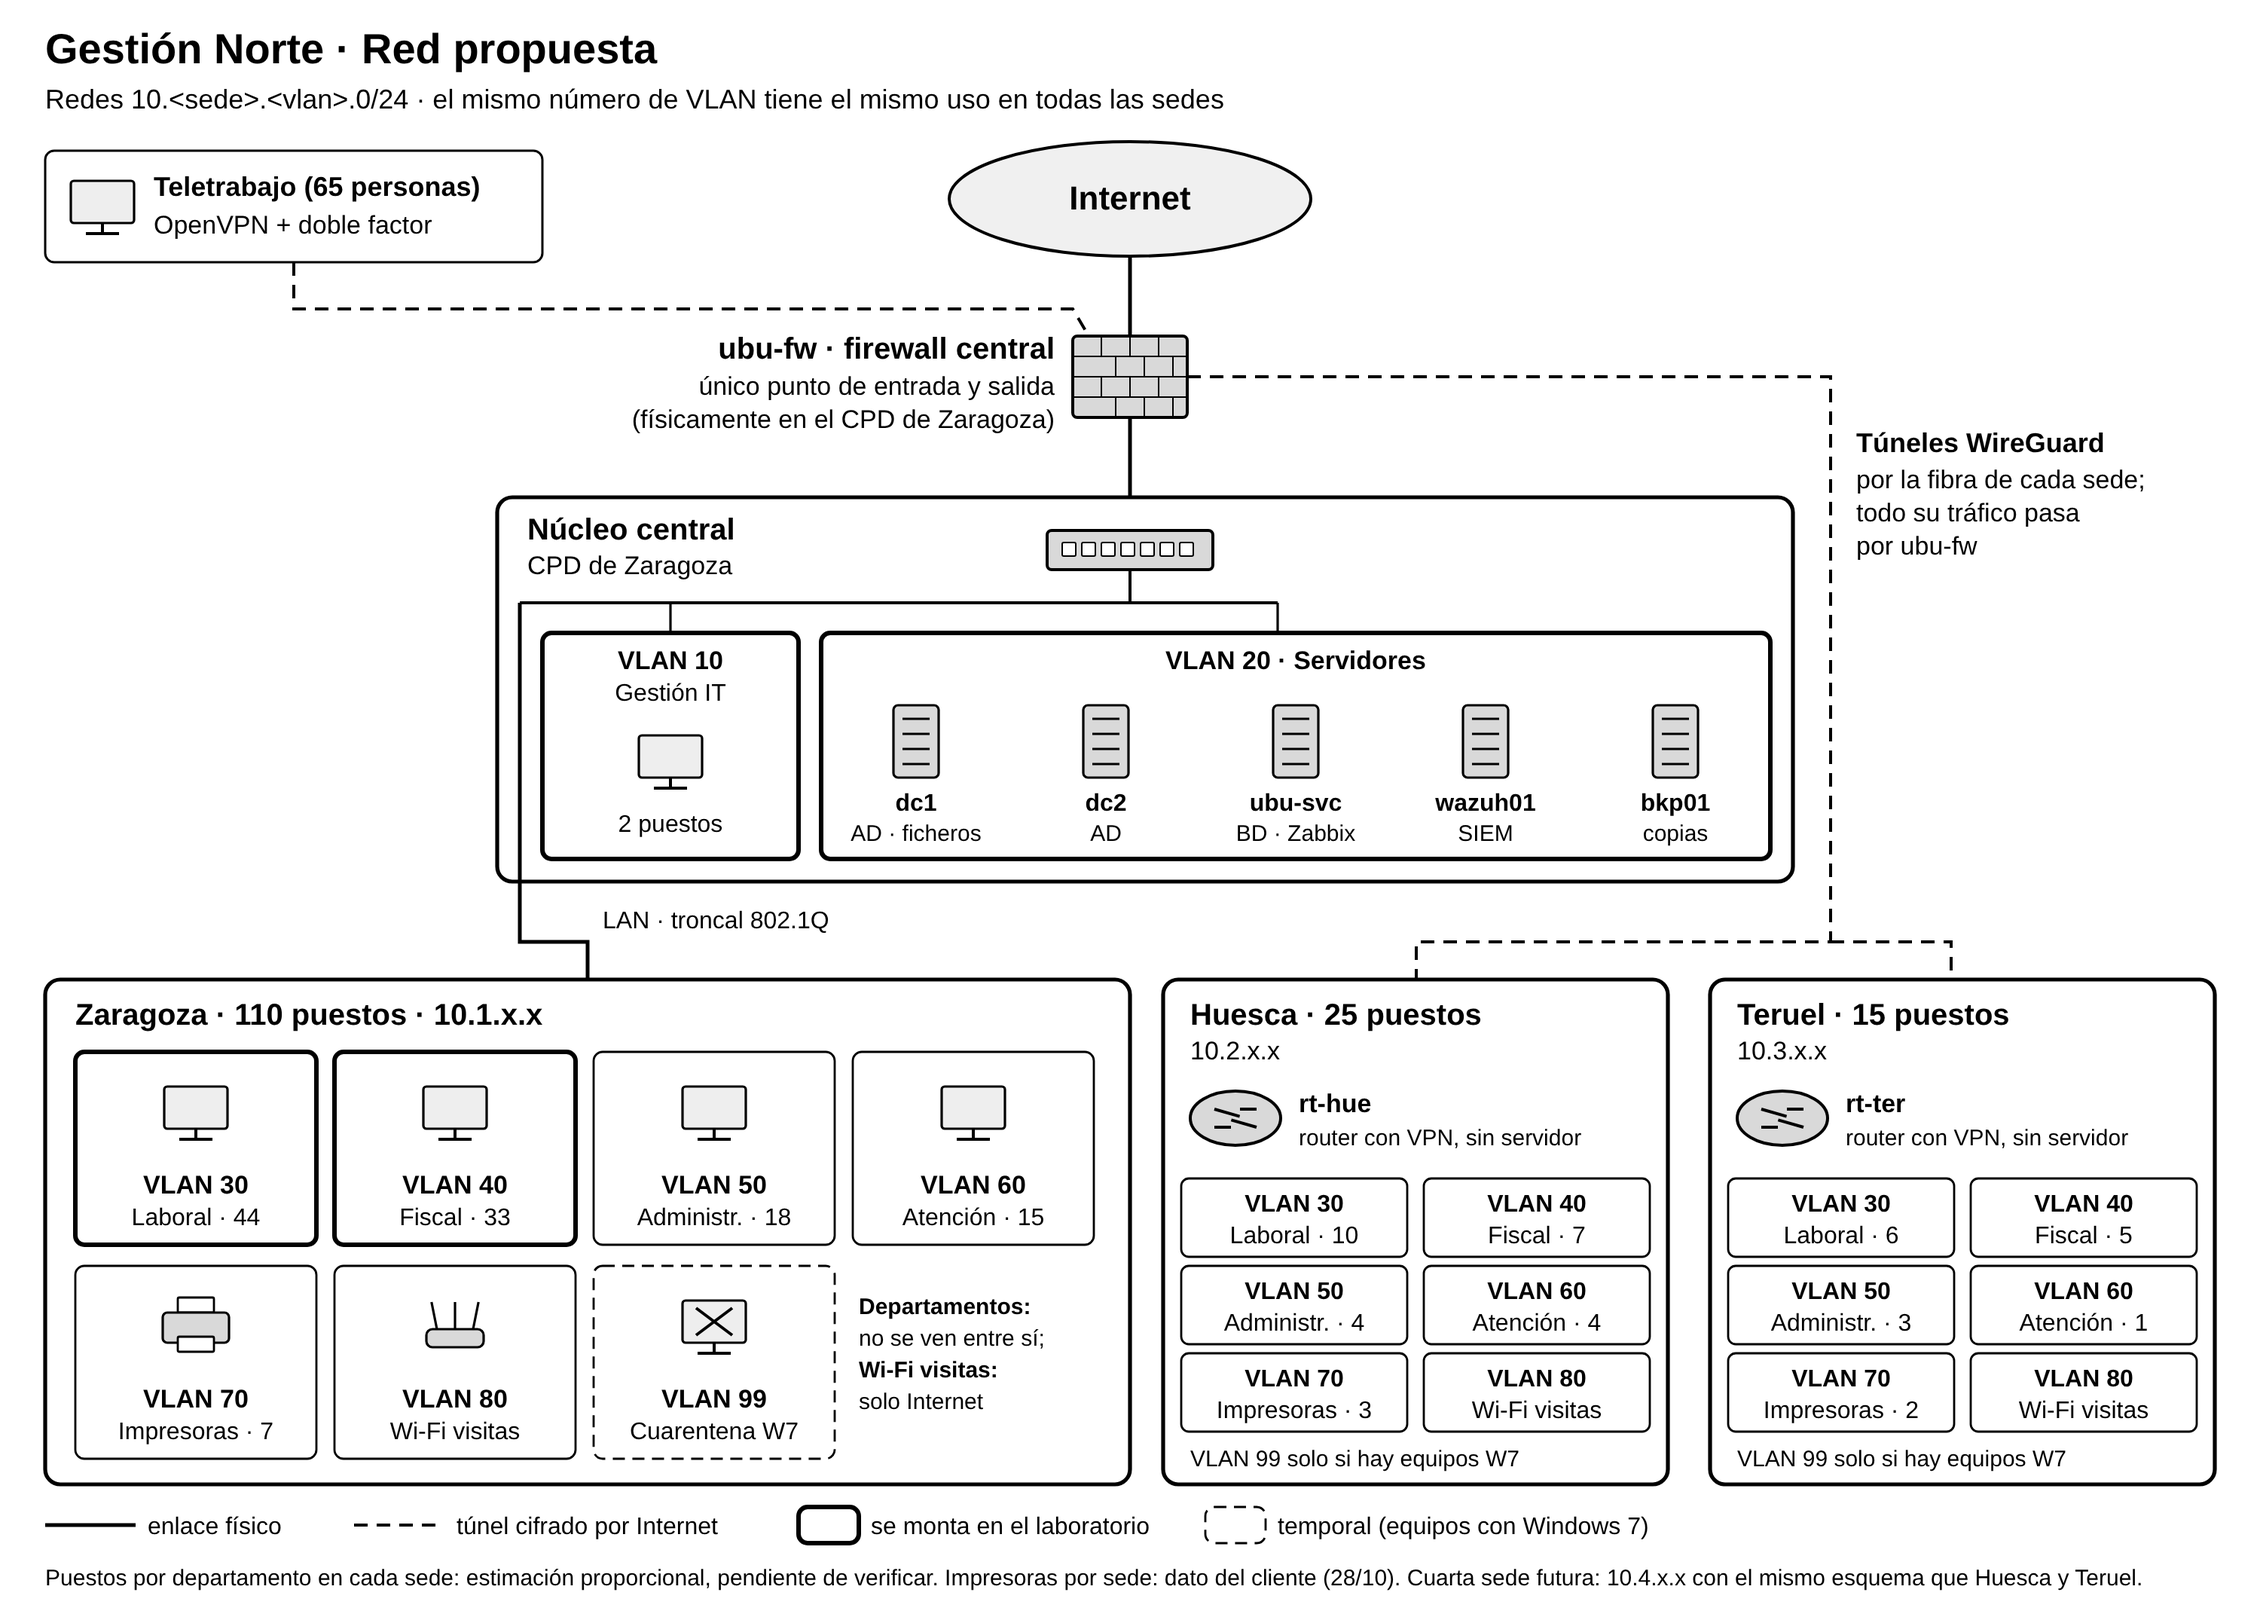
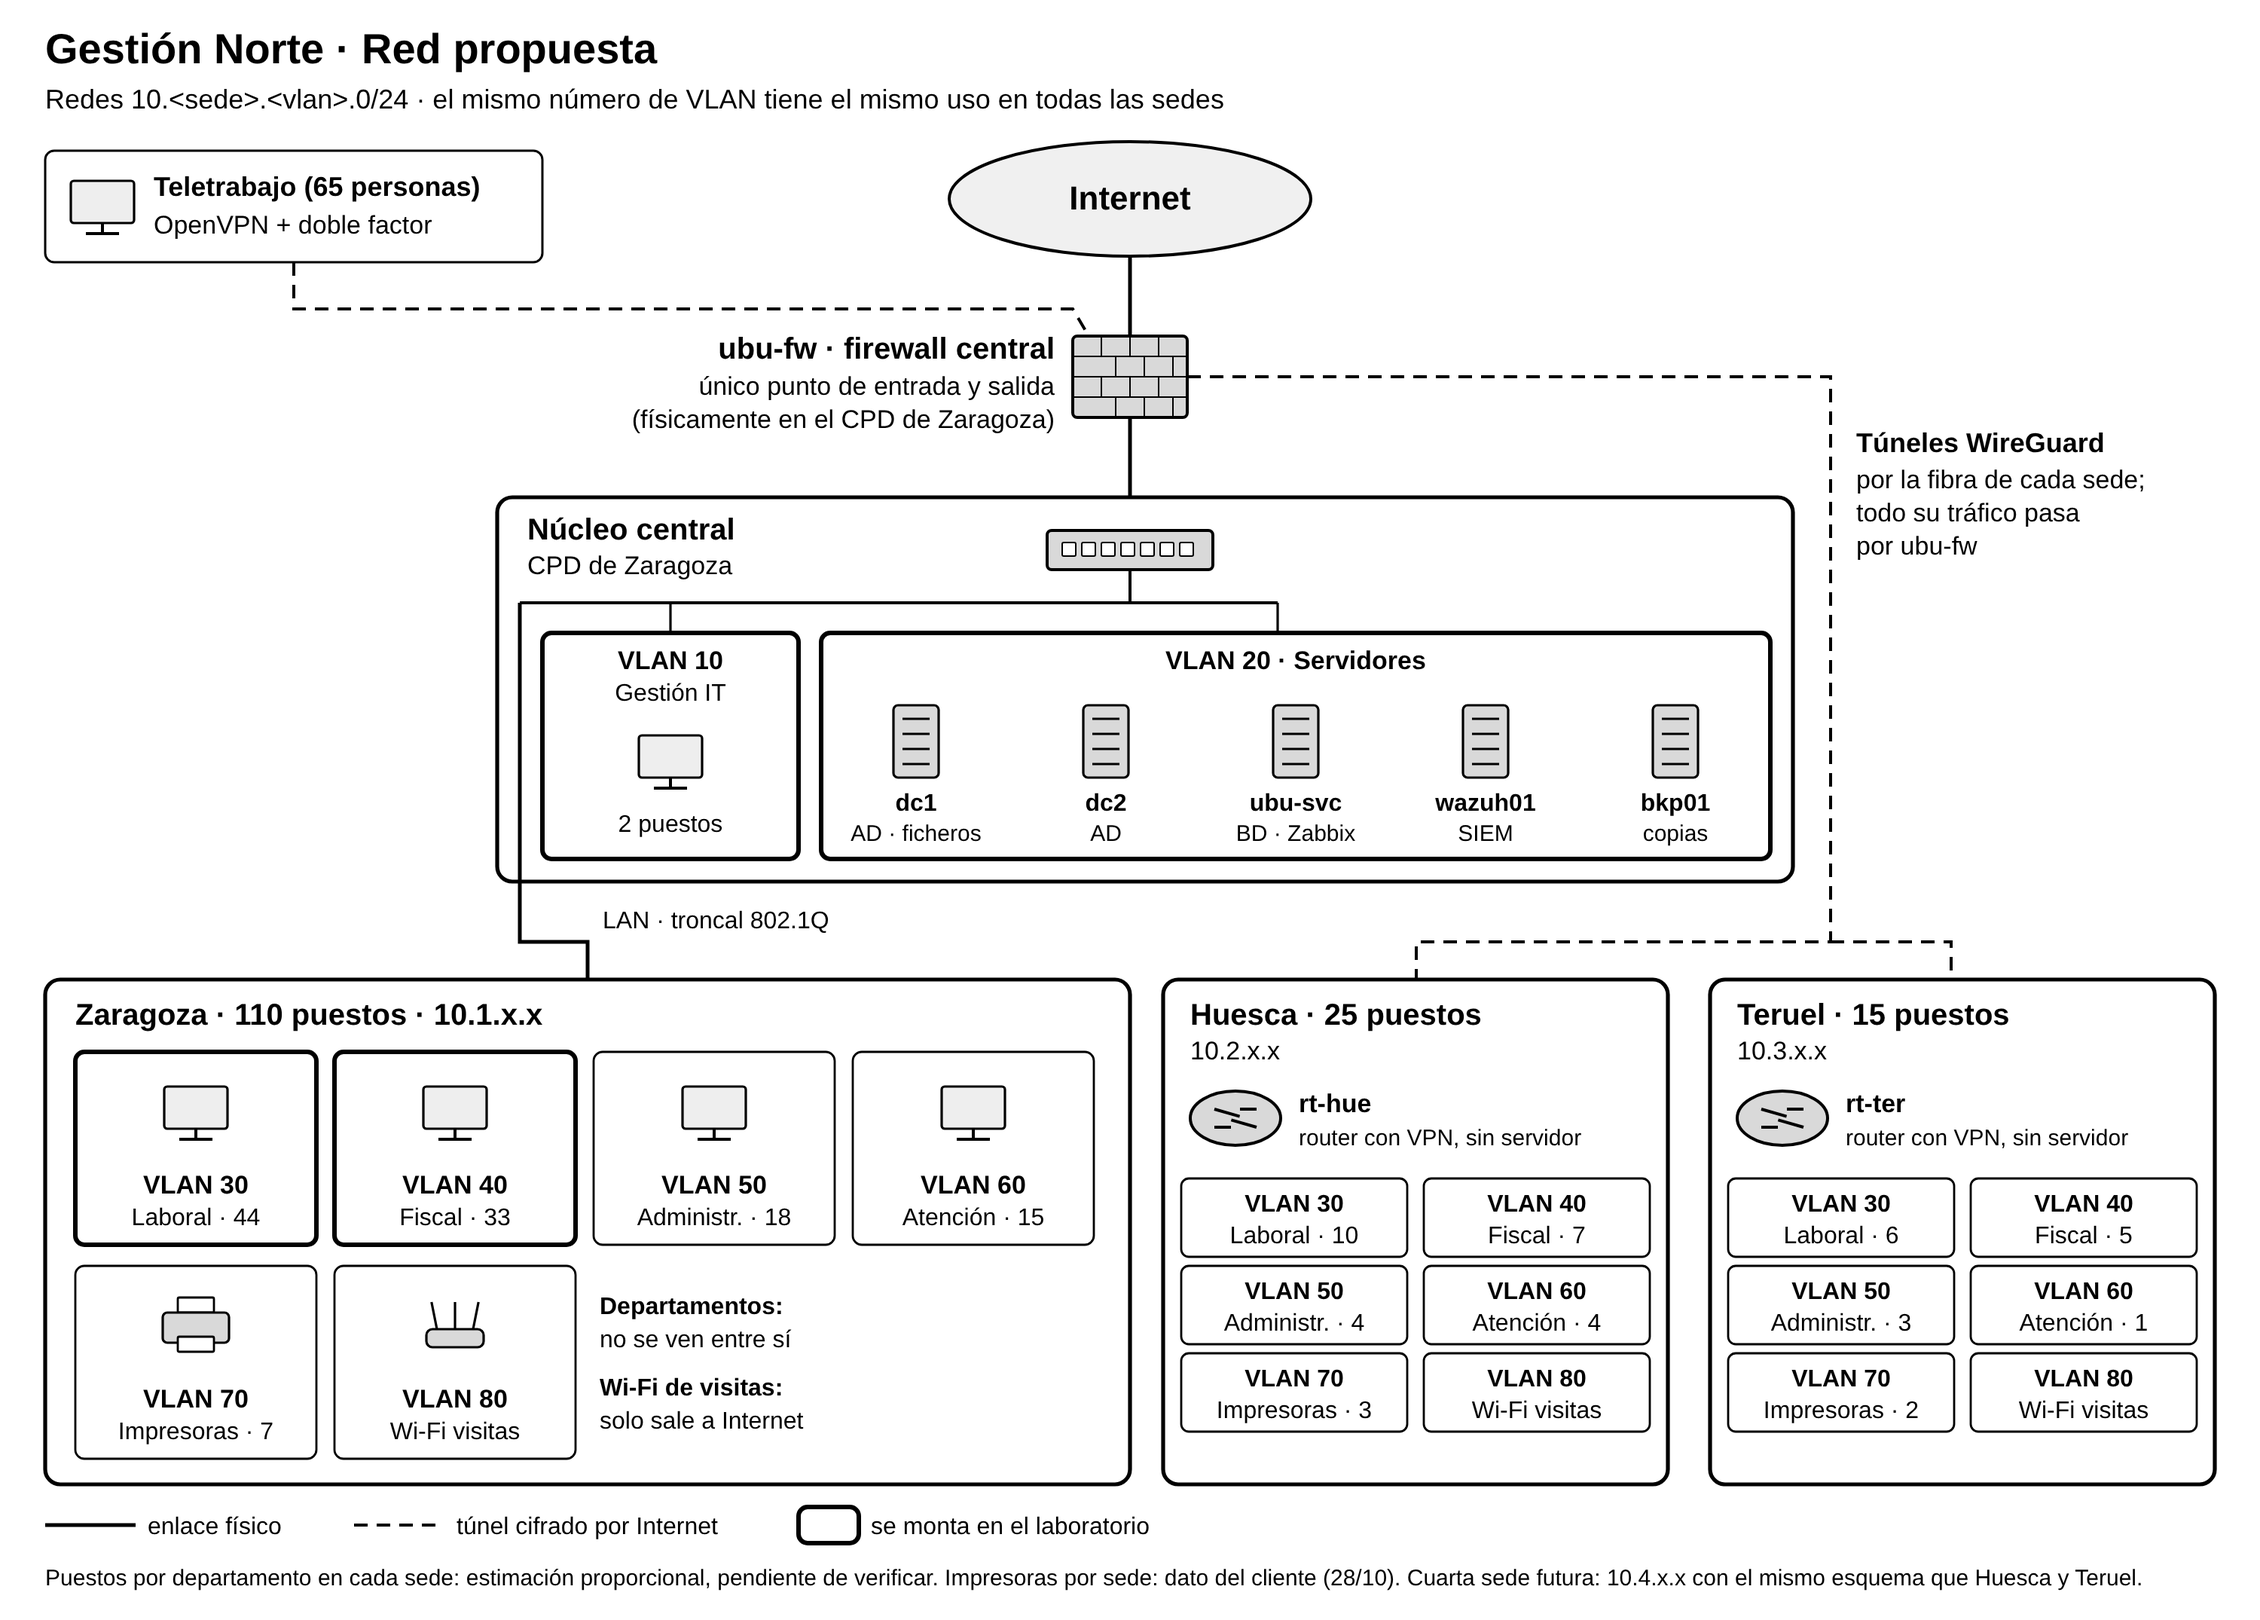
Se elimina la VLAN 99 de cuarentena (D31) y se actualiza el diagrama

Changed region(s): [[0.248, 0.7791, 0.372, 0.9037], [0.372, 0.7791, 0.465, 0.8726], [0.558, 0.9349, 0.713, 0.966]]

diff --git a/docs/diagramas/red-fisica.py b/docs/diagramas/red-fisica.py
@@ -137,11 +137,10 @@ chip(xs[2], 698, cw, ch, "VLAN 50", "Administr. · 18", pc)
 chip(xs[3], 698, cw, ch, "VLAN 60", "Atención · 15", pc)
 chip(xs[0], 840, cw, ch, "VLAN 70", "Impresoras · 7", prn)
 chip(xs[1], 840, cw, ch, "VLAN 80", "Wi-Fi visitas", ap)
-chip(xs[2], 840, cw, ch, "VLAN 99", "Cuarentena W7", bad, dash="8 5")
-T(xs[3]+4, 872, "Departamentos:", 15, a="start", b=True)
-T(xs[3]+4, 893, "no se ven entre sí;", 15, a="start")
-T(xs[3]+4, 914, "Wi-Fi visitas:", 15, a="start", b=True)
-T(xs[3]+4, 935, "solo Internet", 15, a="start")
+T(xs[2]+4, 872, "Departamentos:", 16, a="start", b=True)
+T(xs[2]+4, 894, "no se ven entre sí", 16, a="start")
+T(xs[2]+4, 926, "Wi-Fi de visitas:", 16, a="start", b=True)
+T(xs[2]+4, 948, "solo sale a Internet", 16, a="start")
 
 # Sedes remotas
 def sede(x, name, sub, rt, n, prns):
@@ -156,7 +155,6 @@ def sede(x, name, sub, rt, n, prns):
     mini(c1, 782, mw, "VLAN 30", f"Laboral · {n[0]}"); mini(c2, 782, mw, "VLAN 40", f"Fiscal · {n[1]}")
     mini(c1, 840, mw, "VLAN 50", f"Administr. · {n[2]}"); mini(c2, 840, mw, "VLAN 60", f"Atención · {n[3]}")
     mini(c1, 898, mw, "VLAN 70", f"Impresoras · {prns}"); mini(c2, 898, mw, "VLAN 80", "Wi-Fi visitas")
-    T(x+18, 973, "VLAN 99 solo si hay equipos W7", 15, a="start")
 
 sede(772, "Huesca · 25 puestos", "10.2.x.x", "rt-hue", (10, 7, 4, 4), 3)
 sede(1135, "Teruel · 15 puestos", "10.3.x.x", "rt-ter", (6, 5, 3, 1), 2)
@@ -166,7 +164,6 @@ y = 1012
 L([(30, y), (90, y)], sw=2.5); T(98, y+6, "enlace físico", 16, a="start")
 L([(235, y), (295, y)], sw=2, dash="9 6"); T(303, y+6, "túnel cifrado por Internet", 16, a="start")
 R(530, y-12, 40, 24, sw=3); T(578, y+6, "se monta en el laboratorio", 16, a="start")
-R(800, y-12, 40, 24, sw=1.4, dash="8 5"); T(848, y+6, "temporal (equipos con Windows 7)", 16, a="start")
 T(30, y+40, "Puestos por departamento en cada sede: estimación proporcional, pendiente de verificar. "
             "Impresoras por sede: dato del cliente (28/10). Cuarta sede futura: 10.4.x.x con el mismo esquema que Huesca y Teruel.", 15, a="start")
 

diff --git a/DECISIONES.md b/DECISIONES.md
@@ -22,7 +22,7 @@ Formato: fecha · decisión · por qué · alternativa descartada · estado. Una
 | D16 | 27/10 | Alcance por niveles: 1 obligatorio, 2 si da tiempo, 3 propuesto | 10 días hasta el borrador sin máquinas montadas | Implementarlo todo | Decidido |
 | D17 | 28/10 | Wi-Fi de visitas en VLAN 80 aislada, solo web a Internet | El cliente nos pide valorarlo; hay atención presencial | Sin red de invitados; invitados en la red de empleados | Propuesto |
 | D18 | 28/10 | RPO/RTO por servicio propuestos al cliente (tabla en `docs/ANALISIS-Y-ARRANQUE.md`) | El cliente pide que concretemos cuánto trabajo pueden perder | Un único RPO para todo | Propuesto; restauración medida en el lab |
-| D19 | 28/10 | Plan Windows 7: inventario, comprobar app antigua de nóminas, VLAN 99 de cuarentena, migrar o sustituir, app antigua en VM aislada | ~45 equipos sin parches desde 2020 | Mantenerlos en la red de usuarios | Propuesto |
+| D19 | 28/10 | Plan Windows 7: inventario, comprobar app antigua de nóminas, migrar o sustituir (sin VLAN propia, ver D31), app antigua en VM aislada | ~45 equipos sin parches desde 2020 | Mantenerlos en la red de usuarios | Propuesto |
 | D20 | 28/10 | Teletrabajo solo con equipos de la empresa (certificado VPN en equipo gestionado) | 45 portátiles para 65 teletrabajadores; un equipo propio no se puede cifrar ni gestionar | VPN desde equipos personales | Propuesto; déficit de portátiles al presupuesto |
 | D21 | 28/10 | Auditoría de cambios en datos bancarios con trigger y tabla de auditoría, además de pgaudit | El cliente quiere saber quién cambia una cuenta bancaria | Solo pgaudit | Implementar (nivel 1) |
 | D22 | 28/10 | Sin plantilla de Ubuntu: cada VM Linux se instala desde la ISO | Cada máquina tiene su propio usuario y configuración; clonar no ahorra trabajo | Plantilla generalizada compartida | Decidido (sustituye a la plantilla Ubuntu de D09) |
@@ -33,7 +33,8 @@ Formato: fecha · decisión · por qué · alternativa descartada · estado. Una
 | D27 | 01/11 | Copias 3-2-1 simuladas: dato original en el NAS de dc1 y en PostgreSQL; copia 1 con restic en bkp01 (solo-añadir); copia 2 en un disco virtual desconectable que simula la copia fuera de la oficina | Regla 3-2-1 demostrable en el laboratorio | Copias en el propio dc1 | Implementar (nivel 1, Álvaro con Arian) |
 | D28 | 01/11 | Red pública (Wi-Fi de visitas) en la VLAN 80, aislada del resto y con salida solo a Internet. Una DMZ (VLAN aparte) solo si se publica algún servicio hacia Internet | Separar por completo el tráfico no confiable | Invitados en la red de empleados | Propuesto. Supuesto: no se publican servicios, así que no hay DMZ en el laboratorio |
 | D29 | 01/11 | Se proponen 2 servidores nuevos para el cliente, salvo que el inventario demuestre que los actuales sirven | Servidores de antigüedad desconocida para datos críticos | Reutilizar sin revisar | Propuesto; pendiente de los componentes de los servidores actuales |
-| D30 | 02/11 | Red en estrella: ubu-fw (en el CPD de Zaragoza) es el único firewall. Huesca y Teruel sin servidor ni firewall propio: router pequeño con VPN (rt-hue, rt-ter) que manda todo el tráfico de empresa a ubu-fw por WireGuard; Wi-Fi de visitas con salida local aislada. VLAN 30-80 en todas las sedes; 10 y 20 solo en el núcleo; 99 solo donde haya Windows 7 | El presupuesto no da para servidores por sede; una sola política y un solo registro para las tres sedes | Firewall Ubuntu en cada sede con salida local (más equipos que mantener y tres políticas) | Propuesto (diseño). Riesgo: la fibra de Zaragoza es crítica → 4G/5G |
+| D30 | 02/11 | Red en estrella: ubu-fw (en el CPD de Zaragoza) es el único firewall. Huesca y Teruel sin servidor ni firewall propio: router pequeño con VPN (rt-hue, rt-ter) que manda todo el tráfico de empresa a ubu-fw por WireGuard; Wi-Fi de visitas con salida local aislada. VLAN 30-80 en todas las sedes; 10 y 20 solo en el núcleo | El presupuesto no da para servidores por sede; una sola política y un solo registro para las tres sedes | Firewall Ubuntu en cada sede con salida local (más equipos que mantener y tres políticas) | Propuesto (diseño). Riesgo: la fibra de Zaragoza es crítica → 4G/5G |
+| D31 | 02/11 | Se elimina la VLAN 99 de cuarentena. Los ~45 equipos con Windows 7 no tienen red propia: se tratan como riesgo alto hasta su sustitución o actualización (partida del presupuesto) | No hay forma realista de aislarlos en las tres sedes y mantener la aplicación de nóminas; no se pretende aparentar un control que no existe | VLAN 99 sin Internet | Decidido por el equipo (Raúl). Riesgo residual sin mitigar: se declara en la memoria |
 
 ## Pendiente de decidir
 - Si Zabbix pasa a Arian (propuesta del 31/10 para aliviar a Álvaro).

diff --git a/PLAN-RED.md b/PLAN-RED.md
@@ -22,7 +22,6 @@ Si algo de aquí cambia, se cambia primero en este fichero y después en las con
 | 80 | INVITADOS | 10.1.80.0/24 | VMnet18 | Wi-Fi de visitas (red pública), aislada y solo Internet (D28) | Diseño |
 | 90 | VPN-USR | 10.1.90.0/24 | tun0 | Teletrabajo | Sí (paso VPN) |
 | 91 | VPN-ADM | 10.1.91.0/24 | tun0 (CCD) | Administradores en remoto | Sí (paso VPN) |
-| 99 | CUARENTENA | 10.1.99.0/24 | — | Temporal: equipos con Windows 7 hasta sustituirlos; sin Internet (D19) | Diseño |
 | — | WG-SEDES | 10.0.0.0/24 | wg0 | Túneles de los routers de sede a ubu-fw: ZGZ .1, Huesca .2, Teruel .3, 4ª sede .4 | Nivel 3 |
 | 30 (Hu) | LABORAL Huesca | 10.2.30.0/24 | VMnet19 | Detrás de rt-hue (Ubuntu mínima que simula el router de sede) | Nivel 3 (solo si sobra tiempo) |
 
@@ -36,7 +35,6 @@ Topología en estrella: **ubu-fw es el único firewall** de las tres sedes. Hues
 | 30-60 Departamentos | Sí | Sí | Sí | Personal de los 4 departamentos en todas (reparto estimado) |
 | 70 Impresoras | Sí (7) | Sí (3) | Sí (2) | Dato del cliente, 28/10 |
 | 80 Invitados | Sí | Sí | Sí | Salida directa a Internet por la fibra local, aislada; nunca entra en el túnel |
-| 99 Cuarentena | Si hay W7 | Si hay W7 | Si hay W7 | Temporal (D19) |
 
 Qué hace el router de sede:
 - Crea las VLAN de la sede (subinterfaces 802.1Q) con puerta de enlace 10.<sede>.<vlan>.1.
@@ -70,7 +68,6 @@ VMnet11-19: tipo host-only, **sin** "Use local DHCP service" y **sin** "Connect 
 - Departamento ↔ departamento: denegado.
 - Administración (SSH, RDP, WinRM) solo desde VLAN 10 o VPN-ADM a través del bastión.
 - Invitados: solo web a Internet. DNS solo hacia ubu-fw (el 53 directo a Internet se bloquea).
-- Cuarentena (VLAN 99): sin Internet; solo hacia los DC (inicio de sesión) y un recurso de ficheros de transición; nunca hacia la VLAN 20 completa ni hacia otras VLAN.
 - NAS (recurso SMB en dc1, D26): departamentos → 10.1.20.10:445/tcp, cada uno solo a su recurso (permisos AGDLP).
 
 ## SSH (acceso administrativo a Linux)
